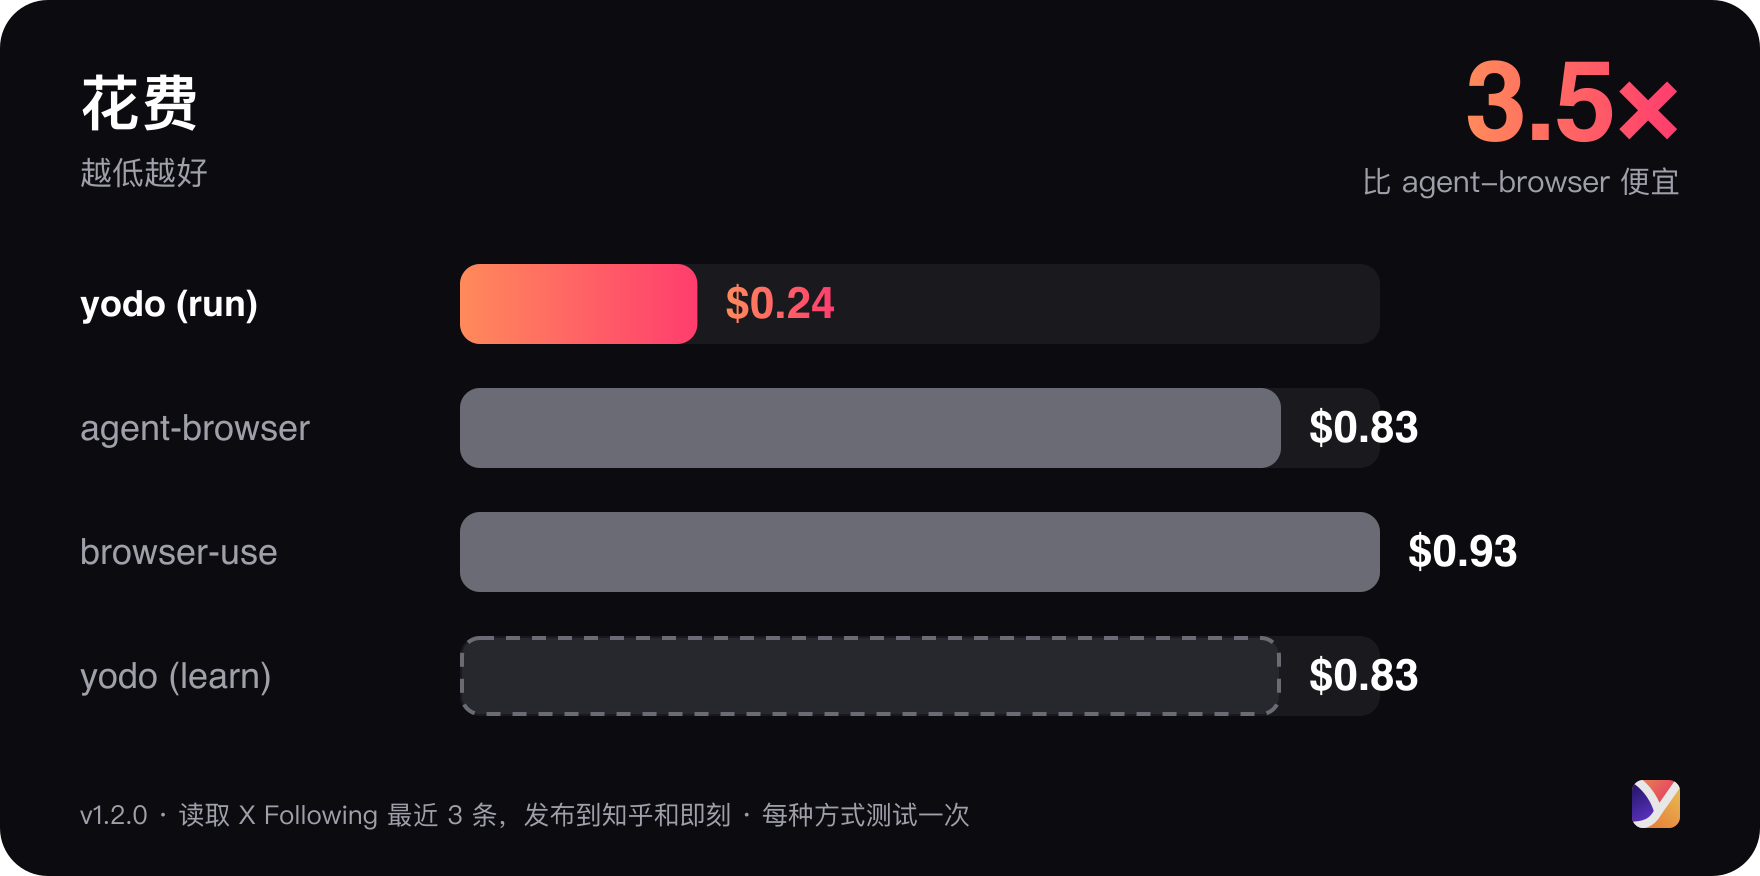
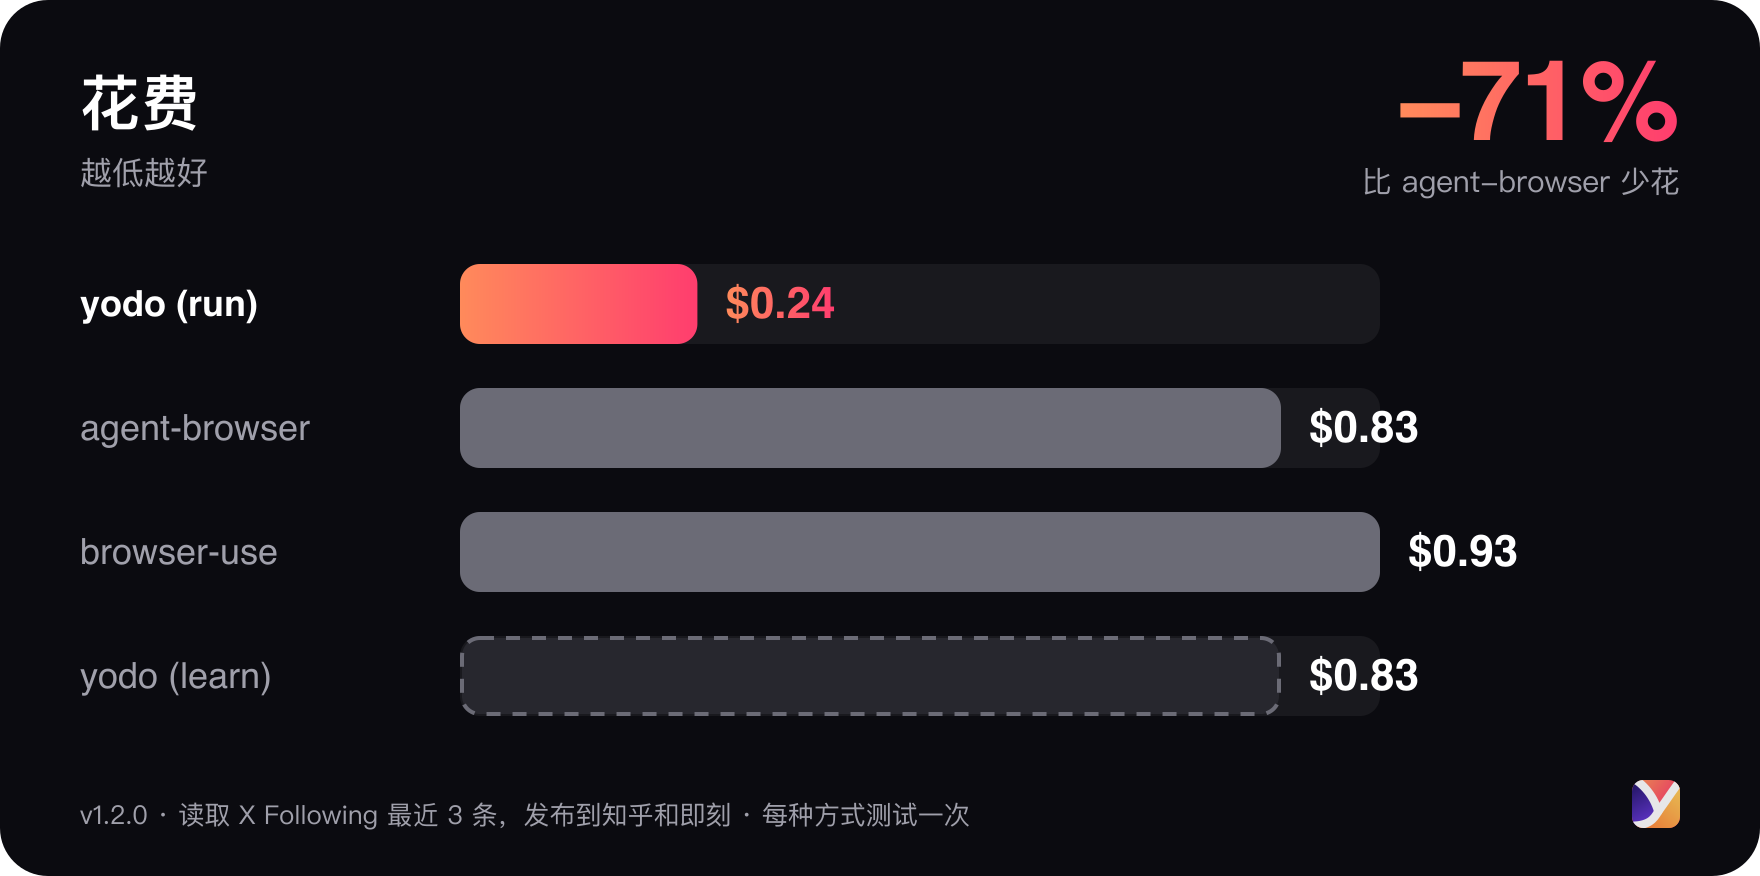
docs(readme): 性能图上下排列，花费图改为少花 71%
- 两张性能图改回上下排列，宽度 560
- 花费图右上角由「3.5×」改为「−71%」，比 agent-browser 少花；耗时图仍是倍数

Changed region(s): [[0.7812, 0.0616, 0.9688, 0.2158]]

diff --git a/bench/charts.py b/bench/charts.py
@@ -97,7 +97,7 @@ def main():
             f"{fastest[1] / ROWS[0][1]:.1f}×", f"比 {fastest[0]} 快", note),
         "cost.svg": chart(
             "花费", "越低越好", dollars, [f"${d:.2f}" for d in dollars],
-            f"{cheapest[2] / ROWS[0][2]:.1f}×", f"比 {cheapest[0]} 便宜", note),
+            f"−{(1 - ROWS[0][2] / cheapest[2]) * 100:.0f}%", f"比 {cheapest[0]} 少花", note),
     }
     for name, svg in outputs.items():
         path = os.path.join(HERE, name)

diff --git a/README.md b/README.md
@@ -29,7 +29,9 @@ yodo 是帮你完成个人浏览器任务的 skill，与 `browser-use`、`agent-
 | `browser-use` | 是 | 9 分 45 秒 | $0.93 |
 | `yodo (learn)` | 是 | 6 分 46 秒 | $0.83 |
 
-<img src="bench/time.svg" alt="耗时" width="410"> <img src="bench/cost.svg" alt="花费" width="410">
+<img src="bench/time.svg" alt="耗时" width="560">
+
+<img src="bench/cost.svg" alt="花费" width="560">
 
 `yodo (run)` 是运行已学会的脚本，`yodo (learn)` 是演示后学习并完成任务；学习只需一次。数据在 v1.2.0 上测得，v2 未重测，每种方式只测一次。分析与复现方法见 [bench/README.md](bench/README.md)。
 
